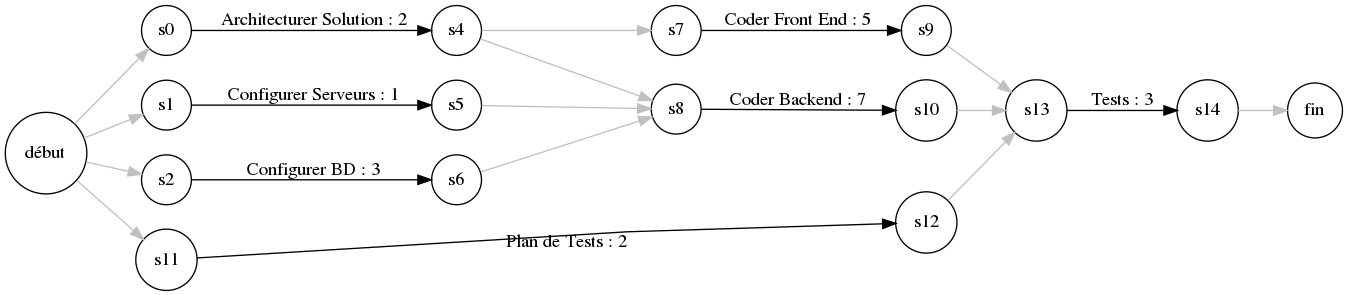
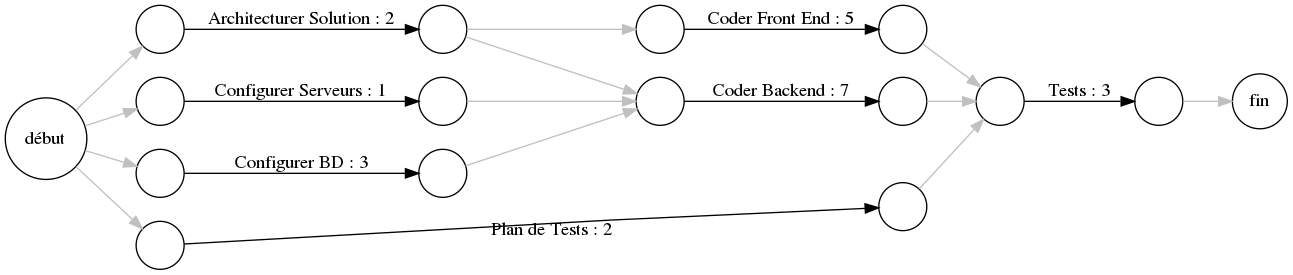
Complete lecture 11

diff --git a/cours/11-graphes/slides.md b/cours/11-graphes/slides.md
@@ -48,17 +48,18 @@ Note d'implémentation : les graphes sont générés avec GraphViz via le script
 # Plan
 
 - Discussion sur les hiérarchies
-- Arbre binaire
+- Arbre de recherche binaire
 - Insertion et recherche
-- Arbre N-aire
+- Arbre de recherche N-aire
 - Discussion concernant les graphes
 - Théorie des graphes
-- Digraph
-- Identification d'un cycle
+- Représentations des graphes
 - Parcours en profondeur
 - Parcours en largeur
-- Graphe pondéré
-- Recherche de chemin critique
+- Identification d'un cycle
+- Graphe pondéré : représentation
+- Plus court chemin
+- Chemin critique
 
 ---
 
@@ -108,15 +109,21 @@ Il est possible d'inverser la représentation pour obtenir une hiérarchie.
 
 <!-- _class: title-section -->
 
-# <!--fit--> Arbre binaire : représentation
+# <!--fit--> Arbre de recherche binaire
+
+### Binary Search Tree :uk:
 
 ---
 
 ### Notion d'arbre
 
 * Une **hiérarchie** peut être représentée sous la forme d'un **arbre**.
-* Un **arbre binaire** ne comporte que **2 branches**.
+* Un **arbre de recherche binaire** (BST - binary search tree :uk:) ne comporte que **2 branches**.
 * Chaque noeud peut avoir un sous-noeud à gauche et/ou à droite.
+
+<!--
+En pratique, on abrège par "arbre binaire", plutôt que "arbre de recherche binaire".
+-->
 
 ---
 
@@ -202,7 +209,7 @@ class ArbreBinaire:
 
 <!-- _class: title-section -->
 
-# <!--fit--> Insertion et recherche dans un arbre binaire
+## Insertion et recherche dans un arbre binaire
 
 ---
 
@@ -350,7 +357,7 @@ Dans un arbre rouge-noir, la recherche et l'insertion sont en $O(\log N)$.
 
 <!-- _class: title-section -->
 
-# <!--fit--> Arbre N-aire : représentation
+# <!--fit--> Arbre de recherche N-aire
 
 ---
 
@@ -408,11 +415,11 @@ class Noeud:
 
 <!-- _class: title-section -->
 
-# <!--fit--> Discussion concernant les problèmes impliquant des graphes
+### Discussion concernant les problèmes impliquant des graphes
 
 ---
 
-### Chemin le plus rapide
+### Trajet le plus rapide
 
 ![](./assets/013-gps.png)
 
@@ -678,6 +685,14 @@ Il s'agit du graphe sous-jacent à celui présenté précédemment.
 - En théorie des graphes, un **arbre** est un graphe non-orienté simple, connexe et sans cycle.
 - Deux sommets quelconques ne sont reliés que par un unique chemin.
 - Le nombre d'arcs est relié au nombre de sommets par la relation : $|A| = |S| - 1$.
+
+<!--
+Dans la première partie de ce cours, nous nous sommes concentrés sur les arbres de recherche, et plus particulièrement sur les arbres de recherche binaires.
+Dans les arbres de recherche, un noeud doit avoir une valeur plus grande que les noeuds enfants à gauche et plus petite que les enfants à droite.
+La notion d'arbre en théorie des graphes est plus générale et décrit simplement la structure d'arbre.
+Cette notion n'intègre pas de relation d'ordre entre les parents et les enfants.
+Cette distinction est importante à comprendre.
+-->
 
 ---
 
@@ -1338,7 +1353,7 @@ G = GraphePondere(sommets=[s0, s1, s2, s3, s4],
 
 <!-- _class: title-section -->
 
-# <!--fit--> Plus court chemin
+# Plus court chemin
 
 ---
 
@@ -1497,7 +1512,7 @@ Coûts = `[0, 4, 9, 4, 2, 6, 8, 12, 13, 12, 3, 5, 14, 13, 14]`
 
 * Un **problème d'ordonnancement** *simple* est caractérisé par un ensemble de **tâches** à exécuter.
 * Chaque tâche a une **durée** déterminée.
-* Chaque tâche a des **contraintes de précédence** : pour exécuter une tâche, ses prédecesseurs doivent être exécuter préalablement.
+* Chaque tâche a des **contraintes de précédence** : pour exécuter une tâche, ses prédecesseurs doivent être exécutés préalablement.
 
 <!--
 Dans un vrai projet, les durées d'exécution peuvent être imprécises : données sous forme d'intervalle, de loi de probabilité, etc.
@@ -1528,9 +1543,11 @@ De nouvelles contraintes peuvent éventuellement surgir en cours de projet.
 
 ---
 
+<!-- _class: smaller-text -->
+
 ### Exemple (1/3)
 
-|          Tâches             | Durée (jours) | Prédecesseurs |
+|          Tâches             | Durée (jours) | Prédécesseurs |
 |:----------------------------|:-------------:|:--------------|
 | T1 : Architecturer Solution |      2        |               |
 | T2 : Configurer Serveurs    |      1        |               |
@@ -1538,21 +1555,19 @@ De nouvelles contraintes peuvent éventuellement surgir en cours de projet.
 | T4 : Plan de Tests          |      2        |               |
 | T5 : Coder Front End        |      5        | T1            |
 | T6 : Coder Backend          |      7        | T1, T2, T3    |
-| T7 : Tests                  |      3        | T5, T6, T7    |
+| T7 : Tests                  |      3        | T4, T5, T6    |
 
 ---
 
 ### Exemple (2/3)
 
-![](./assets/054-pert.png)
+![w:1160](./assets/054-pert.png)
 
 ---
 
 <!-- _class: smaller-text -->
 
-![bg right:25% 80%](./assets/054-pert.png)
-
-### Exemple (3/3)
+#### Exemple (3/3)
 
 ```python
 NA = None # Non Applicable
@@ -1587,11 +1602,15 @@ M = [
 * Toute tâche sur un chemin critique est une **tâche critique**.
 * Nous cherchons à trouver un chemin critique.
 
+<!--
+Pour trouver tous les chemins critiques, il faudrait modifier notre implémentation de Bellman-Ford pour qu'il créé un graphe des plus courts chemins, plutôt qu'un arbre des plus courts chemins.
+-->
+
 ---
 
 ### Exemple de chemin critique
 
-![](./assets/055-chemin-critique.png)
+![w:1160](./assets/055-chemin-critique.png)
 
 ---
 
@@ -1617,6 +1636,8 @@ M = [
 ![](./assets/056-plus-long-chemin.png)
 
 ---
+
+<!-- _class: smaller-text -->
 
 ### Algorithme (1/3)
 
@@ -1704,7 +1725,7 @@ Il n'y a aucune difficulté ici.
 
 ---
 
-![bg right:60% 90%](./assets/056-plus-long-chemin.png)
+![bg right:60% 90%](./assets/057-plus-long-chemin-res.png)
 
 ### Exemple
 

diff --git a/cours/trame.md b/cours/trame.md
@@ -170,19 +170,20 @@ Chaque partie correspond à une demi-journée de cours, comportant chacune en mo
 ### 11. Introduction aux graphes
 
 * Correction du travail à la maison.
-* Discussion sur les hiérarchies.
-* Arbre binaire.
-* Arbre N-aire.
-* Insertion et recherche dans un arbre binaire.
+* Discussion sur les hiérarchies
+* Arbre de recherche binaire
+* Insertion et recherche
+* Arbre de recherche N-aire
 * **TP** : Arbres binaires.
-* Discussion sur les graphes.
-* Introduction à la théorie des graphes.
-* Digraph.
-* Identification d'un cycle.
-* Recherche en profondeur.
-* Recherche en largeur.
-* Graphe pondéré.
-* Recherche de chemin critique.
+* Discussion concernant les graphes
+* Théorie des graphes
+* Représentations des graphes
+* Parcours en profondeur
+* Parcours en largeur
+* Identification d'un cycle
+* Graphe pondéré : représentation
+* Plus court chemin
+* Chemin critique
 * **TP** : Graphes.
 
 ### 12. Conclusion
